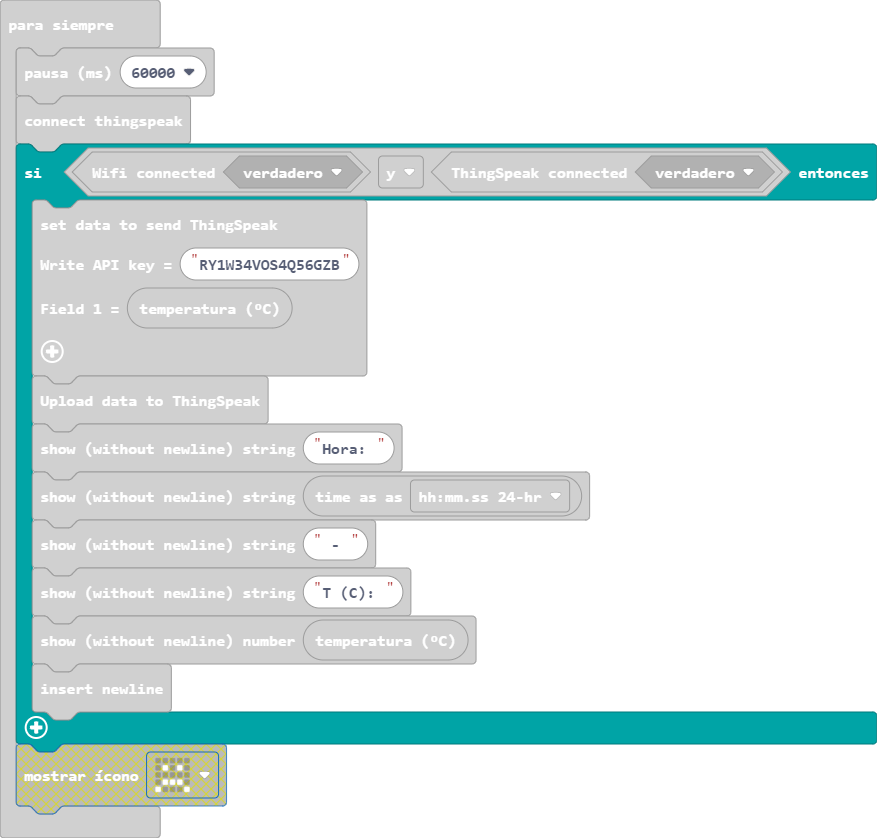
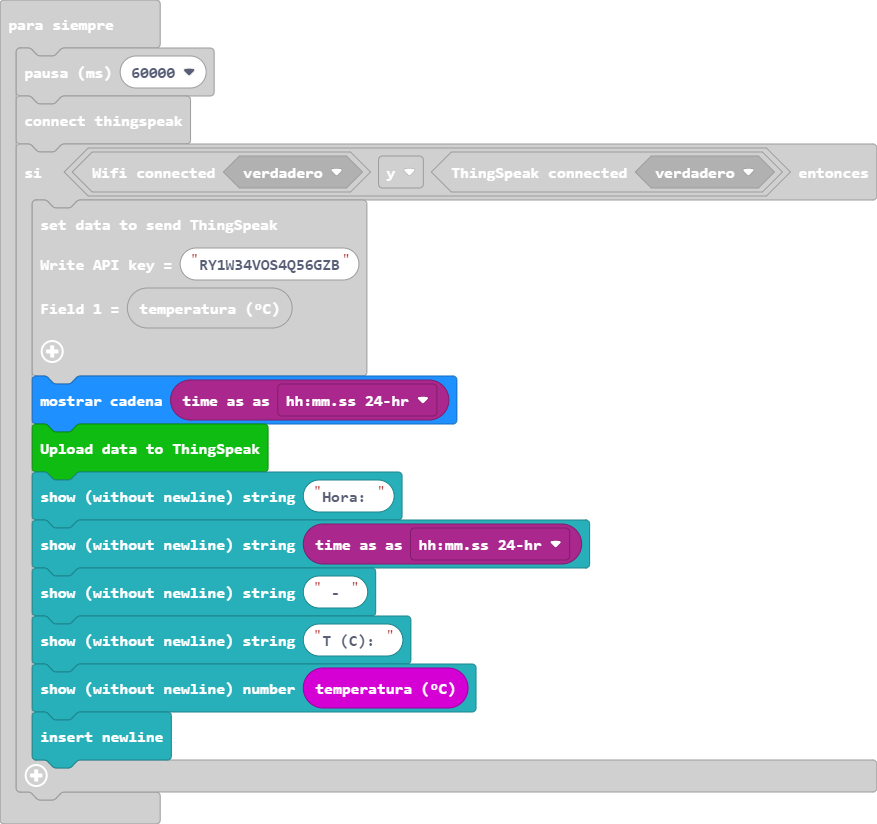
Actualizar main.blocks, main.ts

diff --git a/main.ts b/main.ts
@@ -11,6 +11,7 @@ basic.forever(function () {
         "RY1W34VOS4Q56GZB",
         input.temperature()
         )
+        basic.showString(timeanddate.time(timeanddate.TimeFormat.HHMMSS24hr))
         ESP8266_IoT.uploadData()
         OLED.writeString("Hora: ")
         OLED.writeString(timeanddate.time(timeanddate.TimeFormat.HHMMSS24hr))
